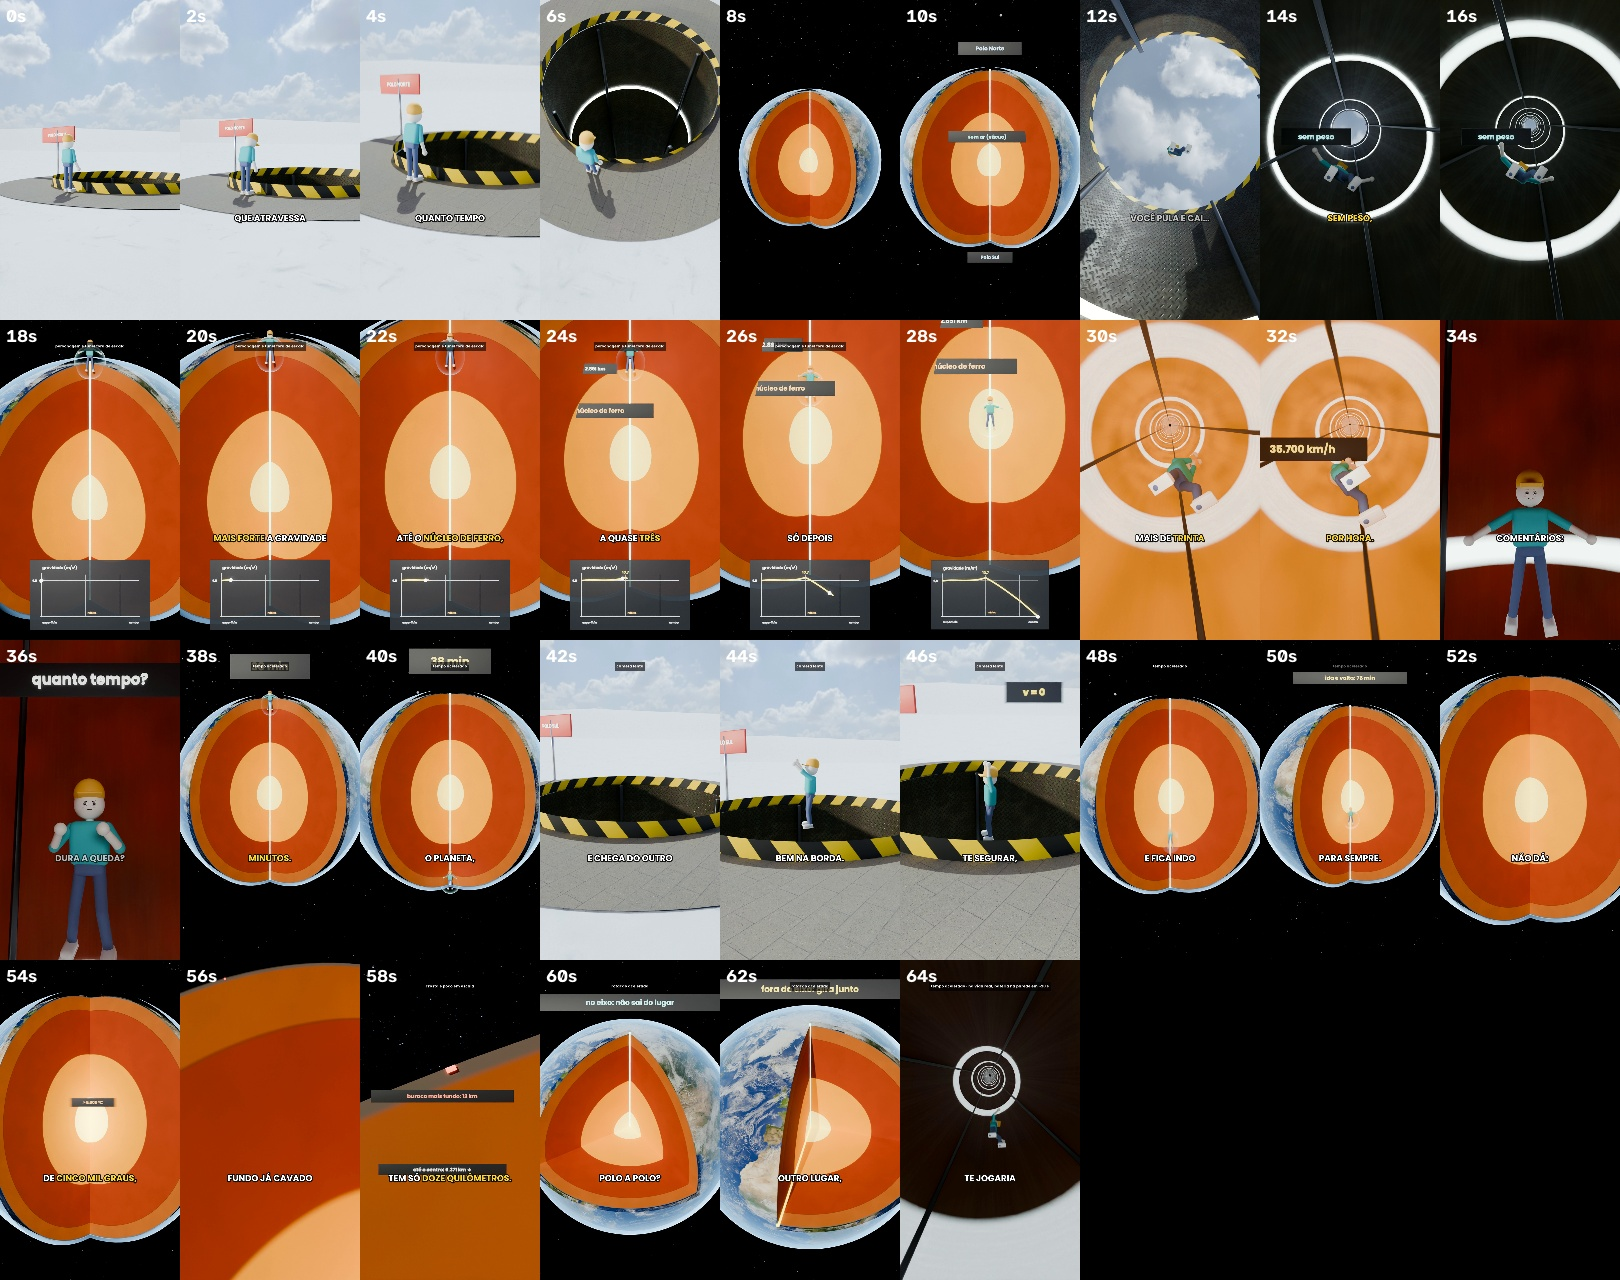
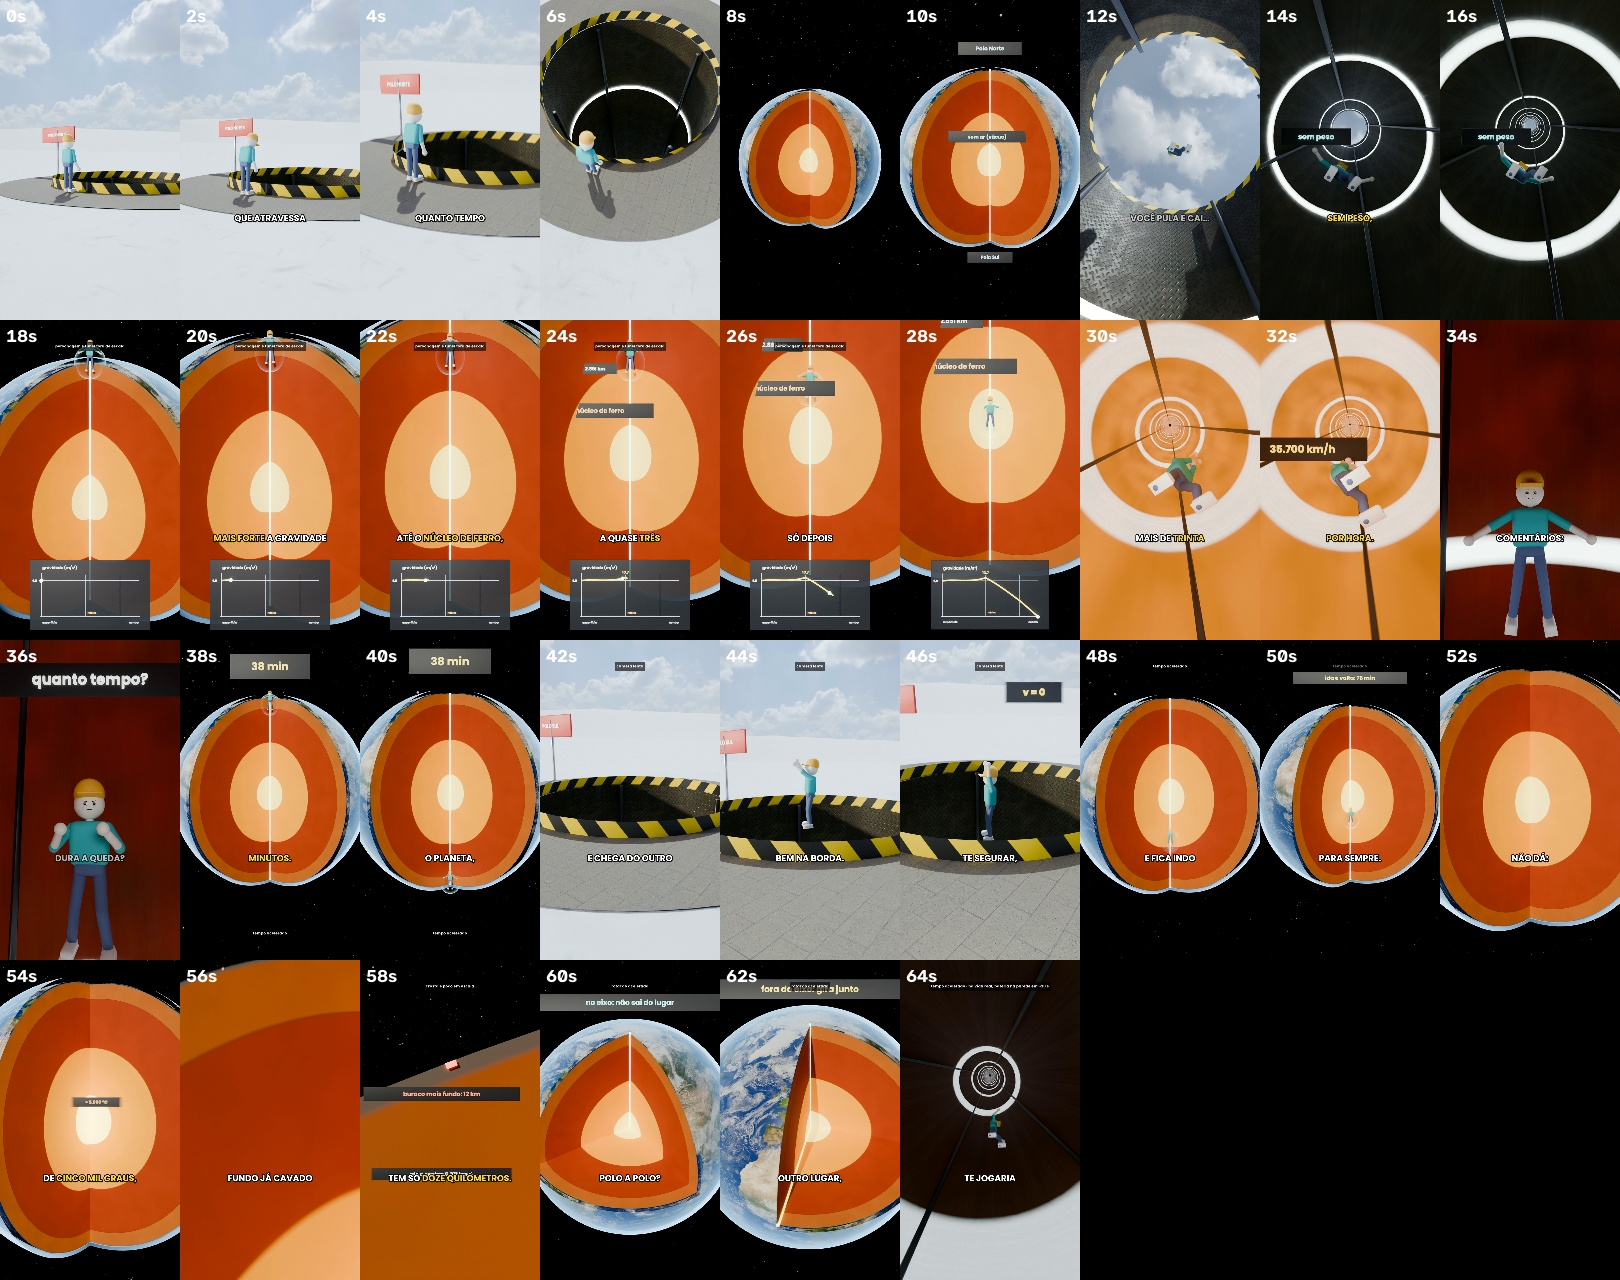
Vídeo 03 entregue: QC aprovado, nota de tempo acelerado movida para baixo, limitações e changelog v0.4
Claude-Session: https://claude.ai/code/session_01Adyz318NBz57nGHwGc8mF6

diff --git a/projeto_videos3d/v2/ep03/captions_cfg.py b/projeto_videos3d/v2/ep03/captions_cfg.py
@@ -7,7 +7,7 @@ def HUD(wt):
     return []
 def NOTES(wt):
     return [(16.35, 27.9, 'personagem e túnel fora de escala'),
-            (36.95, 40.45, 'tempo acelerado'),
+            (36.95, 40.45, 'tempo acelerado', r'\an2'),
             (40.55, 47.35, 'câmera lenta'),
             (47.45, 50.05, 'tempo acelerado'),
             (56.6, 58.75, 'crosta e poço em escala'),

diff --git a/projeto_videos3d/CHANGELOG.md b/projeto_videos3d/CHANGELOG.md
@@ -5,6 +5,19 @@
 - `scripts/add_narration.py`: MP3 → MP4 com legenda sincronizada, ducking e −14 LUFS.
 - Para recuperar: `git checkout be24c75 -- projeto_videos3d` (a tag não pôde ser enviada ao GitHub: o acesso desta sessão só permite o branch de trabalho).
 
+## v0.4 — vídeo 03 "E se você pulasse num buraco que atravessa a Terra?" entregue (2026-11-13)
+- Arquivo: `v2/ep03/out/03_buraco_atravessa_a_terra_1080x1920.mp4` (66,0 s, 1980 quadros, 30 fps, H.264 + AAC 48 kHz, 65 MB; fora do git por tamanho).
+- **Render nativo 720x1280** (Cycles, 6–9 amostras + OIDN), **ampliado para 1080x1920**. Não é render nativo em 1080x1920.
+- Narração original do usuário sem alteração de velocidade: atraso 0 ms, deriva 0 ms, correlação 0,995.
+- QC (`v2/ep03/qc_report_03.json`): todos os itens aprovados. Volume −14,0 LUFS, pico −1,1 dBTP, nenhum quadro preto ou congelado, erro da legenda 0,0 s.
+- Física (`v2/ep03/fisica.py`): queda pelo modelo PREM. Ida em 38 min 11 s, velocidade máxima de 35.700 km/h, gravidade de 10,7 m/s² na fronteira do núcleo.
+- Tempo de render: cerca de 9,5 h em CPU. O container reiniciou 3 vezes no meio, e o render retomou cada vez a partir dos quadros já salvos.
+- Texturas da Terra: Solar System Scope (CC BY 4.0).
+
+### Correções após o QC da v0.4
+- Plano J: a câmera ficava parada em 4 trechos (50,3–58,8 s). Ganhou deriva lenta no começo e aproximação final em Kola, e o plano inteiro foi refeito. Os quadros antigos estão em `v2/ep03/frames/_bak_J_v0/`.
+- A nota "tempo acelerado" (36,95–40,45 s) cobria o rótulo "38 min" e foi movida para a parte de baixo.
+
 ## v0.3 — vídeo 02 "E se a Terra parasse de girar" entregue (2026-11-12)
 - Arquivo: `v2/ep02/out/02_terra_parasse_de_girar_1080x1920.mp4` (76,5 s, 2295 quadros, 30 fps, H.264 + AAC 48 kHz, 135 MB; fora do git por tamanho).
 - **Render nativo 720x1280** (Cycles, 6–9 amostras + OIDN), **ampliado para 1080x1920**. Não é render nativo em 1080x1920.

diff --git a/projeto_videos3d/v2/ep03/LIMITACOES.md b/projeto_videos3d/v2/ep03/LIMITACOES.md
@@ -1,0 +1,11 @@
+# Limitações conhecidas — vídeo 03
+
+- Resolução: render nativo 720x1280, ampliado para 1080x1920.
+- Física: queda sem atrito, num túnel no vácuo, com a densidade real da Terra (modelo PREM, Dziewonski e Anderson, 1981). Resultado: 38 min 11 s, conferido com Klotz (Am. J. Phys. 83, 231, 2015). É um experimento mental: na prática, o calor e a pressão tornam esse túnel impossível.
+- Escala ilustrativa: personagem e túnel aparecem fora de escala no corte da Terra (D), com nota na tela. A crosta e o poço de Kola (J) estão em escala.
+- Tempo ilustrativo: queda e oscilação aceleradas (G, I), câmera lenta na chegada ao Polo Sul (H), rotação da Terra acelerada (K). Cada trecho tem nota na tela.
+- Plano L: o desvio lateral num túnel no Equador vem da integração real da queda num túnel que gira com a Terra (cerca de 3,7 m em 25 s). Na tela, o tempo vai cerca de 14× mais rápido, e a nota diz que, na vida real, a batida na parede leva cerca de 20 s.
+- Camadas da Terra em cores estilizadas, não fotográficas.
+- Personagem estilizado, low-poly com PBR.
+- Efeitos sonoros e música feitos por código, sem bibliotecas licenciadas.
+- Crédito obrigatório na descrição do post: "Texturas da Terra: Solar System Scope (CC BY 4.0)".
